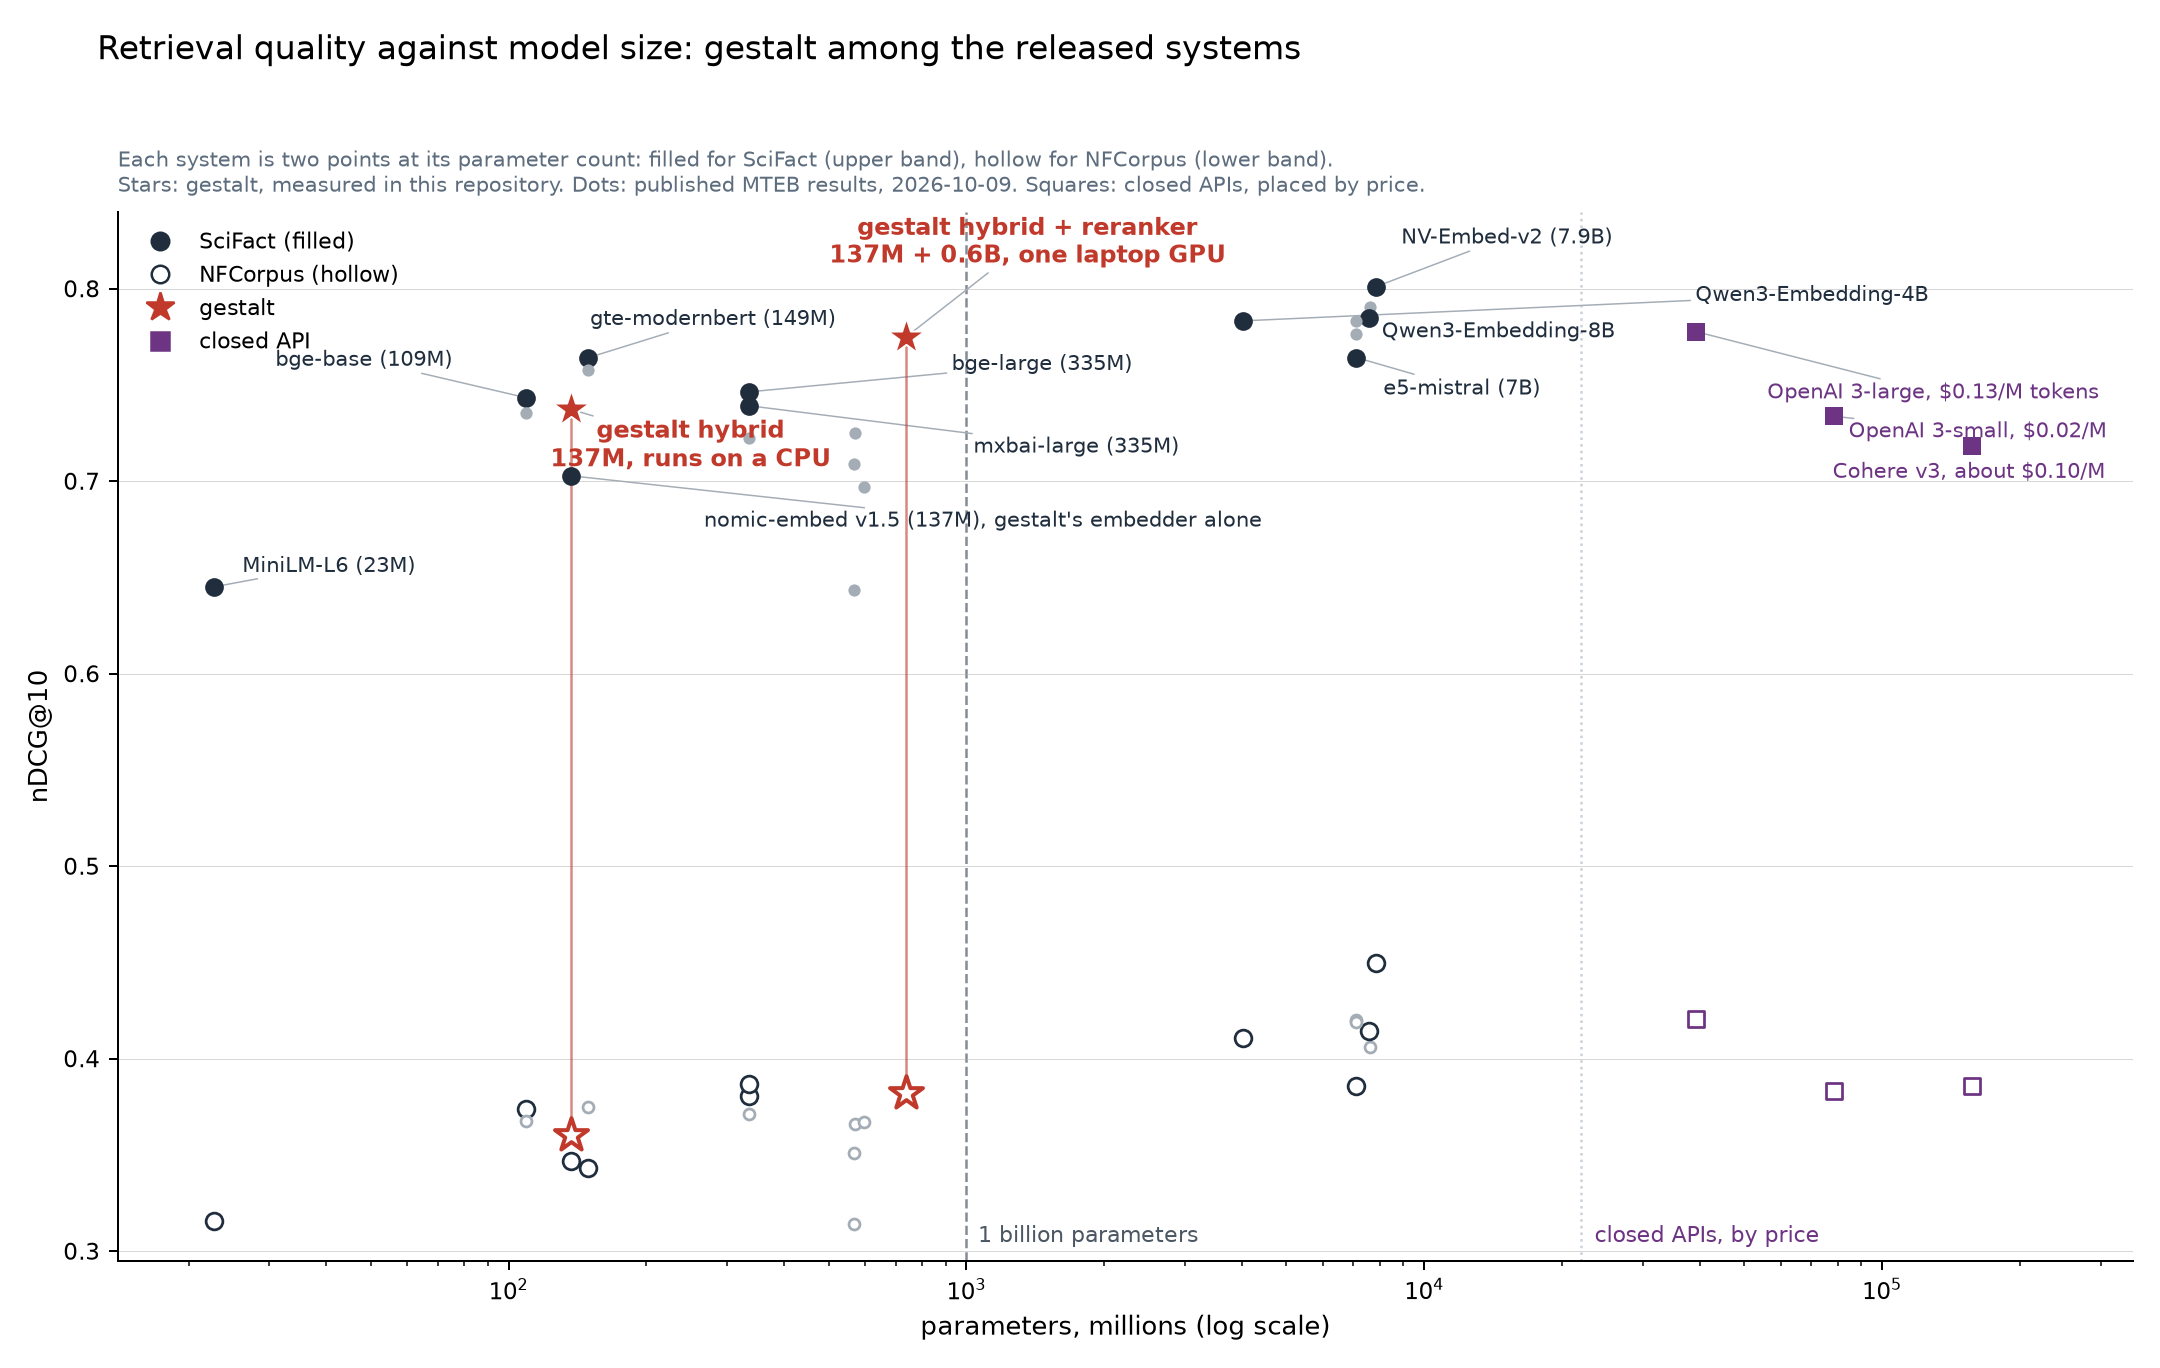
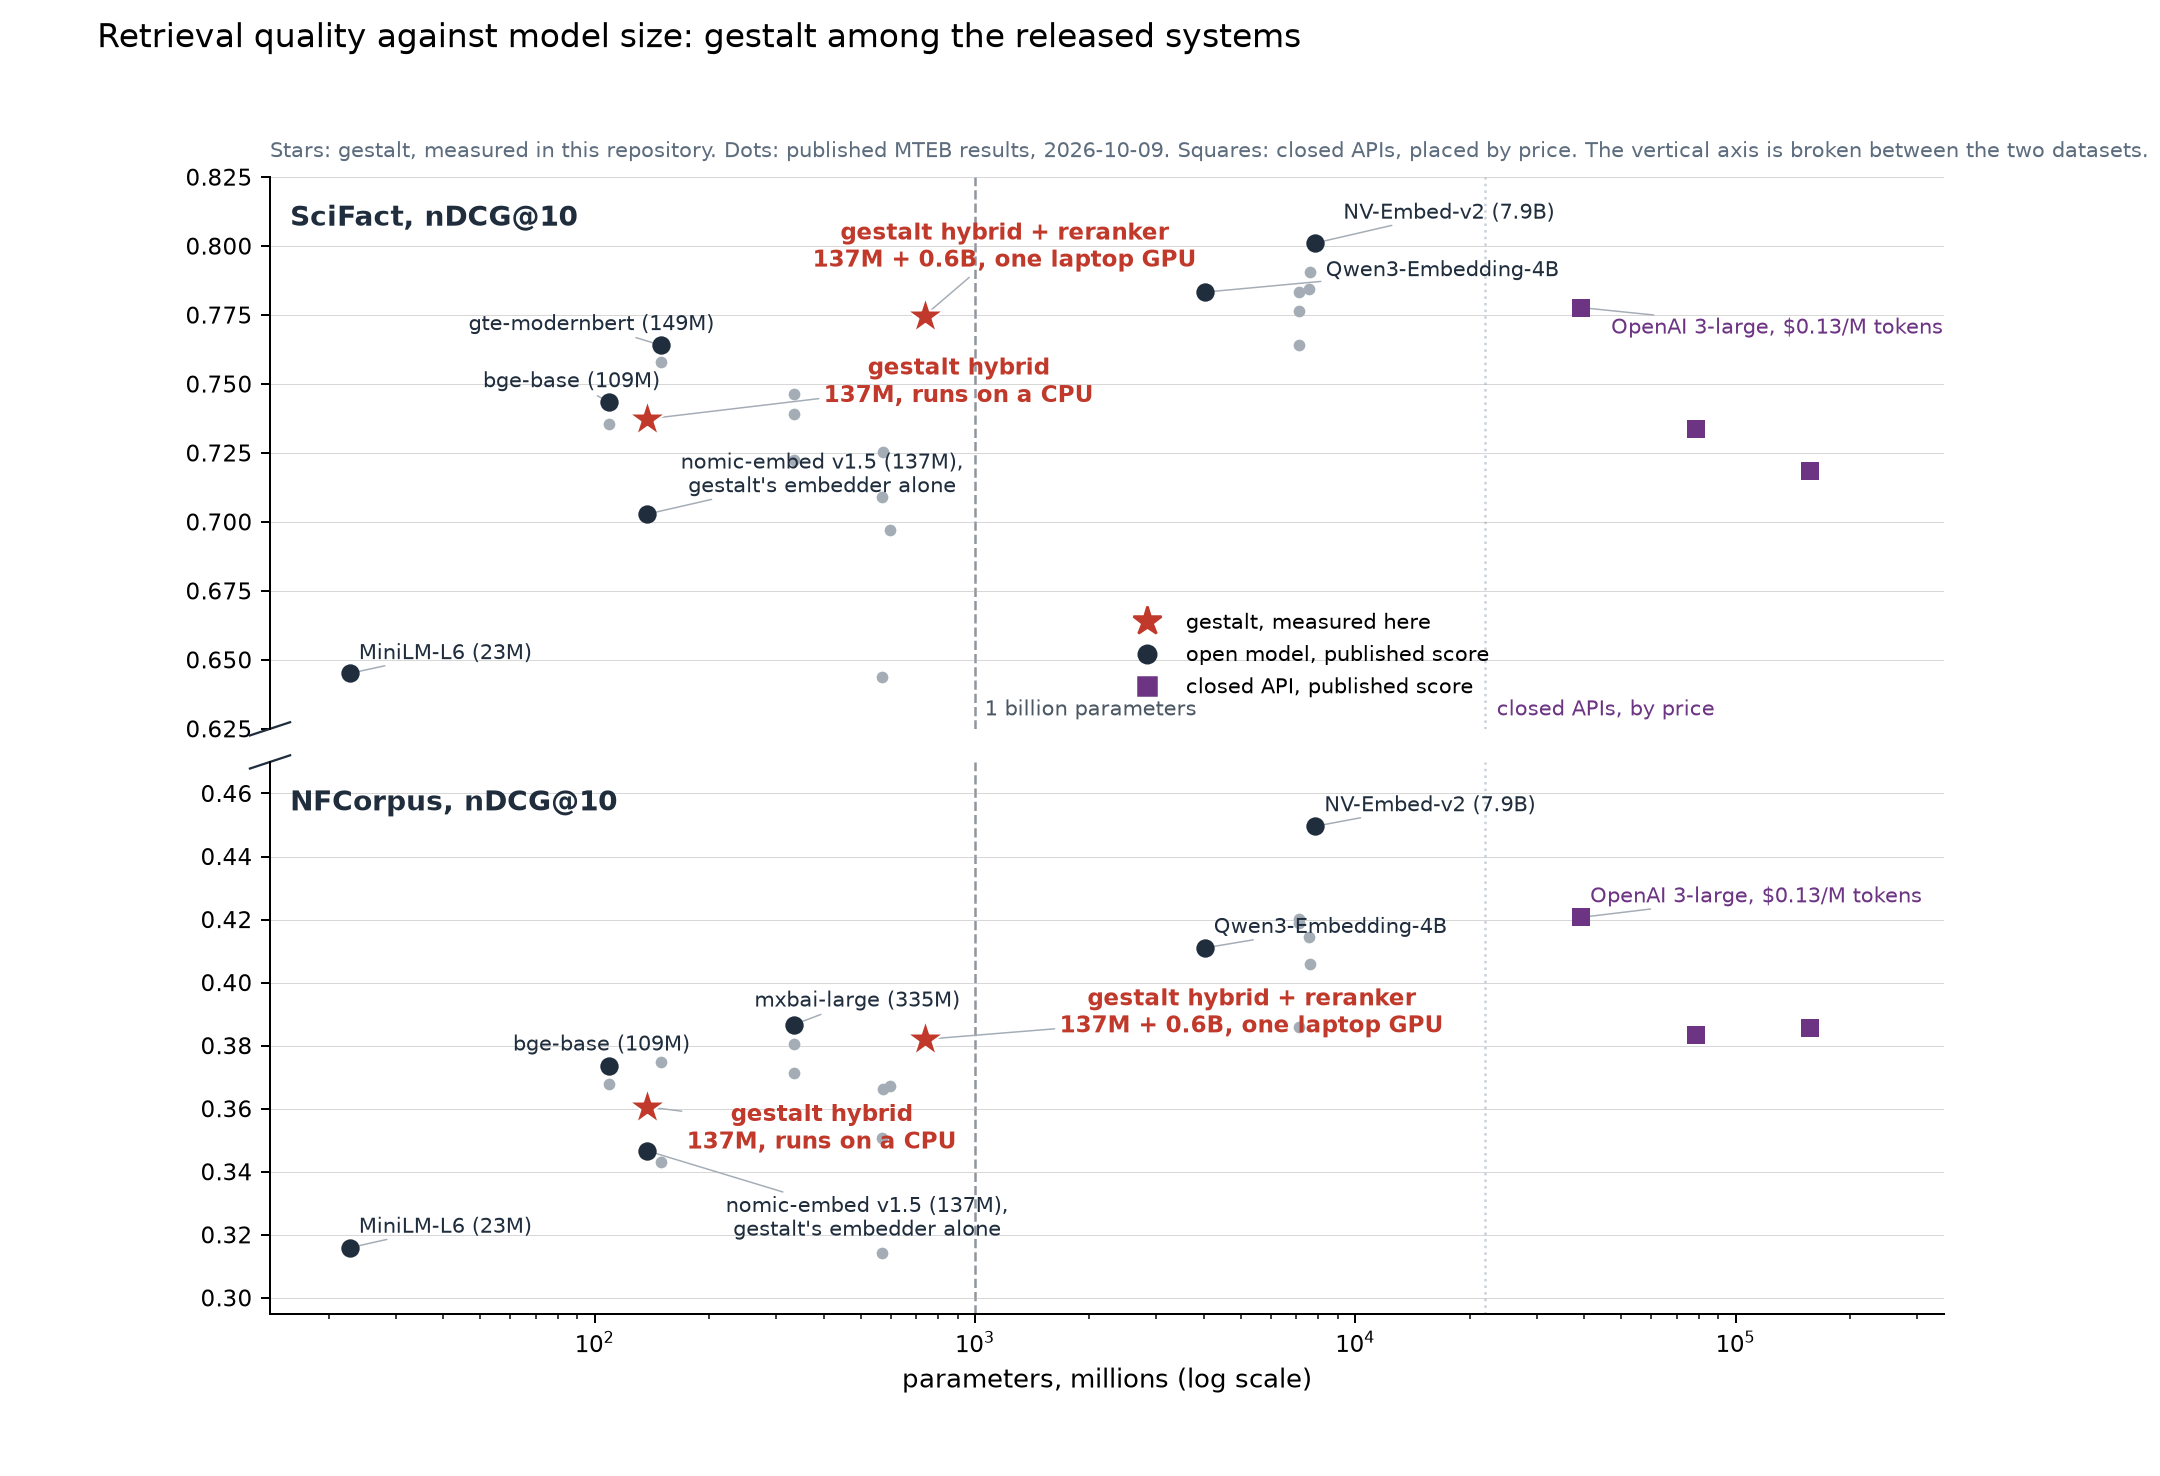
gestalt-core sync from 15fc18d

diff --git a/docs/make_score_cost_chart.py b/docs/make_score_cost_chart.py
@@ -1,10 +1,11 @@
 #!/usr/bin/env python3
 """One chart: released retrieval systems on BEIR SciFact and NFCorpus (nDCG@10) against parameter count.
 
-Reads released-systems.json. Each system is two points joined by a thin vertical line: a filled marker for SciFact and a hollow
-one for NFCorpus, at the system's parameter count. Stars are gestalt, measured in this repository. Dots are published MTEB
-results. Squares are closed APIs, in a band at the right by price. Only landmark systems are labelled, the rest are small and
-grey. A dashed vertical line marks one billion parameters.
+Reads released-systems.json. Each system is two points at its parameter count, SciFact in the upper band and NFCorpus in the
+lower band. The vertical axis is broken between the bands, so the empty range between about 0.46 and 0.63 does not take half
+the picture. Stars are gestalt, measured in this repository. Dots are published MTEB results. Squares are closed APIs, in a
+band at the right by price. Only landmark systems are labelled, the rest are small and grey. A dashed vertical line marks one
+billion parameters.
 
     uv run --with matplotlib --with adjustText python3 make_score_cost_chart.py --out score-vs-cost.png
 """
@@ -20,56 +21,64 @@ ap.add_argument("--data", default="released-systems.json")
 ap.add_argument("--out", default="score-vs-cost.png")
 a = ap.parse_args()
 rows = [r for r in json.load(open(a.data)) if r.get("scifact") is not None and r.get("nfcorpus") is not None]
-RED, INK, GREY, API, LINE = "#c0392b", "#1f2d3d", "#a4adb6", "#6c3483", "#c9d1d9"
+RED, INK, GREY, API, LINE, BAND = "#c0392b", "#1f2d3d", "#a4adb6", "#6c3483", "#c9d1d9", "#f4f6f8"
 LABEL = {
     "NV-Embed-v2": "NV-Embed-v2 (7.9B)", "Qwen3-Embedding-8B": "Qwen3-Embedding-8B", "Qwen3-Embedding-4B": "Qwen3-Embedding-4B",
     "e5-mistral-7b-instruct": "e5-mistral (7B)", "bge-large-en-v1.5": "bge-large (335M)", "bge-base-en-v1.5": "bge-base (109M)",
     "gte-modernbert-base": "gte-modernbert (149M)", "mxbai-embed-large-v1": "mxbai-large (335M)", "all-MiniLM-L6-v2": "MiniLM-L6 (23M)",
-    "nomic-embed-text-v1.5, gestalt's dense leg alone": "nomic-embed v1.5 (137M), gestalt's embedder alone",
+    "nomic-embed-text-v1.5, gestalt's dense leg alone": "nomic-embed v1.5 (137M),\ngestalt's embedder alone",
     "gestalt hybrid + Qwen3-Reranker-0.6B": "gestalt hybrid + reranker\n137M + 0.6B, one laptop GPU", "gestalt hybrid": "gestalt hybrid\n137M, runs on a CPU",
     "OpenAI text-embedding-3-large": "OpenAI 3-large, $0.13/M tokens", "OpenAI text-embedding-3-small": "OpenAI 3-small, $0.02/M",
     "Cohere embed-english-v3.0": "Cohere v3, about $0.10/M",
 }
+# Eight labels a band can carry without collisions: gestalt's two, the ceiling, the best 4B, the size-class neighbours, the best API, the floor.
+LABEL_BY_BAND = {
+    "scifact": {"gestalt hybrid + Qwen3-Reranker-0.6B", "gestalt hybrid", "NV-Embed-v2", "Qwen3-Embedding-4B", "bge-base-en-v1.5", "gte-modernbert-base",
+                "nomic-embed-text-v1.5, gestalt's dense leg alone", "OpenAI text-embedding-3-large", "all-MiniLM-L6-v2"},
+    "nfcorpus": {"gestalt hybrid + Qwen3-Reranker-0.6B", "gestalt hybrid", "NV-Embed-v2", "Qwen3-Embedding-4B", "bge-base-en-v1.5", "mxbai-embed-large-v1",
+                 "nomic-embed-text-v1.5, gestalt's dense leg alone", "OpenAI text-embedding-3-large", "all-MiniLM-L6-v2"},
+}
 opens = [r for r in rows if r["open"] and r.get("params_m") and "self-reported" not in r.get("note", "")]
 closed = sorted([r for r in rows if not r["open"]], key=lambda r: -r["scifact"])
 xmax = max(r["params_m"] for r in opens)
+api_x = {r["name"]: x for r, x in zip(closed, [xmax * 5, xmax * 10, xmax * 20])}
+XLIM = (14, xmax * 45)
 
-fig, ax = plt.subplots(figsize=(12, 7.6), dpi=180)
-texts = []
-def draw(r, x):
-    g = r["name"].startswith("gestalt"); lab = LABEL.get(r["name"]); api = not r["open"]
-    col = RED if g else (API if api else (INK if lab else GREY))
-    mk = "*" if g else ("s" if api else "o")
-    big = 240 if g else (56 if (lab or api) else 24)
-    if g:  # only gestalt's two points are joined, so the eye finds its pair; every other pair shares an x position
-        ax.plot([x, x], [r["nfcorpus"], r["scifact"]], "-", lw=1.0, color=col, alpha=0.6, zorder=2)
-    ax.scatter(x, r["scifact"], s=big, marker=mk, c=col, edgecolors="white" if g else None, linewidths=0.8 if g else 0, zorder=5 if g else 3)
-    ax.scatter(x, r["nfcorpus"], s=big * 0.8, marker=mk, facecolors="white", edgecolors=col, linewidths=1.6 if g else 1.1, zorder=5 if g else 3)
-    if lab:
-        texts.append(ax.text(x, r["scifact"], lab, fontsize=9.6 if g else 8.6, color=col, fontweight="bold" if g else "normal", zorder=6, linespacing=1.15))
-for r in opens:
-    draw(r, r["params_m"])
-for r, x in zip(closed, [xmax * 5, xmax * 10, xmax * 20]):
-    draw(r, x)
-ax.axvline(1000, color=INK, lw=1.0, ls="--", alpha=0.55, zorder=1)
-ax.text(1000 * 1.06, 0.302, "1 billion parameters", fontsize=8.8, color=INK, alpha=0.8, va="bottom")
-ax.axvline(xmax * 2.8, color=LINE, lw=1, ls=":", zorder=1)
-ax.text(xmax * 3.0, 0.302, "closed APIs, by price", fontsize=8.8, color=API, va="bottom")
-ax.set_xscale("log"); ax.set_xlim(14, xmax * 45); ax.set_ylim(0.295, 0.84)
-ax.set_xlabel("parameters, millions (log scale)", fontsize=10.5)
-ax.set_ylabel("nDCG@10", fontsize=10.5)
-fig.suptitle("Retrieval quality against model size: gestalt among the released systems", fontsize=13, x=0.045, ha="left", y=0.975)
-ax.set_title("Each system is two points at its parameter count: filled for SciFact (upper band), hollow for NFCorpus (lower band).\nStars: gestalt, measured in this repository. Dots: published MTEB results, 2026-10-09. Squares: closed APIs, placed by price.",
-             fontsize=8.4, color="#5d6d7e", loc="left", pad=8)
-legend = [Line2D([0], [0], marker="o", color=INK, markerfacecolor=INK, markersize=7, lw=0, label="SciFact (filled)"),
-          Line2D([0], [0], marker="o", color=INK, markerfacecolor="white", markersize=7, lw=0, label="NFCorpus (hollow)"),
-          Line2D([0], [0], marker="*", color=RED, markerfacecolor=RED, markersize=12, lw=0, label="gestalt"),
-          Line2D([0], [0], marker="s", color=API, markerfacecolor=API, markersize=7, lw=0, label="closed API")]
-ax.legend(handles=legend, loc="upper left", fontsize=8.8, frameon=False)
-for s in ("top", "right"):
-    ax.spines[s].set_visible(False)
-ax.grid(True, axis="y", lw=0.4, alpha=0.5); ax.grid(False, axis="x"); ax.tick_params(labelsize=9)
-adjust_text(texts, ax=ax, expand=(1.3, 1.7), force_text=(0.35, 0.8), iter_lim=600, arrowprops=dict(arrowstyle="-", color=GREY, lw=0.6), only_move={"points": "y", "text": "xy"})
-fig.tight_layout(rect=(0, 0, 1, 0.955))
+fig, (top, bot) = plt.subplots(2, 1, figsize=(12, 8.2), dpi=180, sharex=True, gridspec_kw={"height_ratios": [1, 1], "hspace": 0.06})
+for ax, key, lo, hi, band in ((top, "scifact", 0.625, 0.825, "SciFact"), (bot, "nfcorpus", 0.295, 0.47, "NFCorpus")):
+    ax.set_ylim(lo, hi); ax.set_xscale("log"); ax.set_xlim(*XLIM)
+    ax.text(0.012, 0.95, f"{band}, nDCG@10", transform=ax.transAxes, fontsize=11, fontweight="bold", color=INK, va="top")
+    ax.axvline(1000, color=INK, lw=1.0, ls="--", alpha=0.5, zorder=1)
+    ax.axvline(xmax * 2.8, color=LINE, lw=1, ls=":", zorder=1)
+    for s in ("top", "right"):
+        ax.spines[s].set_visible(False)
+    ax.grid(True, axis="y", lw=0.4, alpha=0.5); ax.grid(False, axis="x"); ax.tick_params(labelsize=9)
+    texts = []
+    keep = LABEL_BY_BAND[key]
+    for r in opens + closed:
+        x = r["params_m"] if r["open"] else api_x[r["name"]]
+        g = r["name"].startswith("gestalt"); lab = LABEL.get(r["name"]) if r["name"] in keep else None; api = not r["open"]
+        col = RED if g else (API if api else (INK if lab else GREY))
+        mk = "*" if g else ("s" if api else "o")
+        ax.scatter(x, r[key], s=240 if g else (54 if (lab or api) else 22), marker=mk, c=col, edgecolors="white" if g else None, linewidths=0.8 if g else 0, zorder=5 if g else 3)
+        if lab:
+            texts.append(ax.text(x, r[key], lab, fontsize=9.4 if g else 8.4, color=col, fontweight="bold" if g else "normal", zorder=6, linespacing=1.15))
+    adjust_text(texts, ax=ax, expand=(1.3, 1.7), force_text=(0.35, 0.8), iter_lim=600, arrowprops=dict(arrowstyle="-", color=GREY, lw=0.6), only_move={"points": "y", "text": "xy"})
+top.spines["bottom"].set_visible(False); top.tick_params(axis="x", which="both", bottom=False)
+top.text(1000 * 1.06, 0.628, "1 billion parameters", fontsize=8.6, color=INK, alpha=0.8, va="bottom")
+top.text(xmax * 3.0, 0.628, "closed APIs, by price", fontsize=8.6, color=API, va="bottom")
+# axis break marks
+d = 0.012
+for ax, y in ((top, 0), (bot, 1)):
+    ax.plot((-d, +d), (y - d, y + d), transform=ax.transAxes, color=INK, clip_on=False, lw=0.9)
+bot.set_xlabel("parameters, millions (log scale)", fontsize=10.5)
+fig.suptitle("Retrieval quality against model size: gestalt among the released systems", fontsize=13, x=0.045, ha="left", y=0.985)
+top.set_title("Stars: gestalt, measured in this repository. Dots: published MTEB results, 2026-10-09. Squares: closed APIs, placed by price. The vertical axis is broken between the two datasets.",
+              fontsize=8.4, color="#5d6d7e", loc="left", pad=8)
+legend = [Line2D([0], [0], marker="*", color=RED, markerfacecolor=RED, markersize=12, lw=0, label="gestalt, measured here"),
+          Line2D([0], [0], marker="o", color=INK, markerfacecolor=INK, markersize=7, lw=0, label="open model, published score"),
+          Line2D([0], [0], marker="s", color=API, markerfacecolor=API, markersize=7, lw=0, label="closed API, published score")]
+top.legend(handles=legend, loc="lower right", fontsize=8.6, frameon=False, bbox_to_anchor=(0.74, 0.02))
+fig.tight_layout(rect=(0, 0, 1, 0.965))
 fig.savefig(a.out)
 print("wrote", a.out)

diff --git a/evals/retrieval/BENCHMARKS.md b/evals/retrieval/BENCHMARKS.md
@@ -66,7 +66,7 @@ The table below is every released embedding model with a widely used position th
 
 ![Score against size for released retrieval systems](../../docs/score-vs-cost.png)
 
-Reading the chart. Each system is two points at its parameter count, a filled marker for SciFact in the upper band and a hollow one for NFCorpus in the lower band, so the two scores stay apart as they do in the table. Stars are gestalt, dots are the published rows with the landmarks labelled, squares are the closed APIs placed at the right by price, and the dashed line marks one billion parameters. Left of that line, the reranked pipeline is the highest SciFact point and the highest NFCorpus point among the open systems. Right of it, the 7B class and the APIs score higher on NFCorpus by 3 to 7 points, while on SciFact the pipeline is level with OpenAI's text-embedding-3-large and above every 7B model except NV-Embed-v2, gte-Qwen2, Qwen3-8B, Linq and SFR. The hybrid alone sits just under bge-base and gte-modernbert at the same size and runs on a CPU, and the hollow points show that two 335M embedders, mxbai-large and bge-large, beat it and the reranked pipeline on NFCorpus. The chart is drawn by `docs/make_score_cost_chart.py` from `docs/released-systems.json`. The self-reported gte-large-en-v1.5 card number is left out.
+Reading the chart. The vertical axis is broken into two labelled bands, SciFact above and NFCorpus below, and each system appears once in each at its parameter count, so the two scores stay apart as they do in the table. Eight systems carry labels in each band and the rest are small grey dots. Stars are gestalt, dots are the published rows with the landmarks labelled, squares are the closed APIs placed at the right by price, and the dashed line marks one billion parameters. Left of that line, the reranked pipeline is the highest SciFact point and the highest NFCorpus point among the open systems. Right of it, the 7B class and the APIs score higher on NFCorpus by 3 to 7 points, while on SciFact the pipeline is level with OpenAI's text-embedding-3-large and above every 7B model except NV-Embed-v2, gte-Qwen2, Qwen3-8B, Linq and SFR. The hybrid alone sits just under bge-base and gte-modernbert at the same size and runs on a CPU, and the hollow points show that two 335M embedders, mxbai-large and bge-large, beat it and the reranked pipeline on NFCorpus. The chart is drawn by `docs/make_score_cost_chart.py` from `docs/released-systems.json`. The self-reported gte-large-en-v1.5 card number is left out.
 
 What the comparison is for. It places a 0.74B-parameter pipeline that fits a laptop GPU, or a 137M one that fits a CPU, among models ten times larger and among paid APIs. It does not claim that gestalt beats them. The data file behind the table and the chart is `docs/released-systems.json`, and the chart is rebuilt from it. A reader who wants another system in it adds a row with its source.
 

diff --git a/README.md b/README.md
@@ -112,7 +112,7 @@ The conventional threshold is p < 0.05, and all six comparisons clear it. The sm
 | OpenAI text-embedding-3-small | dense API | $0.02/M | 0.734 | 0.383 |
 | nomic-embed-text-v1.5, gestalt's dense leg alone | dense | 137M | 0.703 | 0.347 |
 
-![Retrieval quality against model size: gestalt among the released systems. Each system is two points at its parameter count, filled for SciFact and hollow for NFCorpus. Stars are gestalt, dots are published MTEB results, squares are closed APIs placed by price, and the dashed line marks one billion parameters.](docs/score-vs-cost.png)
+![Retrieval quality against model size: gestalt among the released systems. Two labelled bands on a broken vertical axis, SciFact above and NFCorpus below, each system at its parameter count. Stars are gestalt, dots are published MTEB results, squares are closed APIs placed by price, and the dashed line marks one billion parameters.](docs/score-vs-cost.png)
 
 On SciFact the reranked pipeline is within 0.3 points of OpenAI's text-embedding-3-large and above most 7B open models, with a 137M embedder and a 0.6B reranker that fit one laptop GPU in half precision. On NFCorpus it is 4 points under that API and 3 to 7 under the 7B class, and two 335M embedders score higher than it. Without the reranker the hybrid runs on a CPU in about 25 milliseconds a query and sits 0.6 points under bge-base. The classic BEIR baselines all sit below both gestalt rows on both sets. On SciFact the hybrid interval lies above the published BM25 plus cross-encoder score of 0.688. On NFCorpus the hybrid point score is above 0.350, but the hybrid interval contains that number, so the two are not separated.
 
